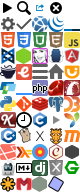
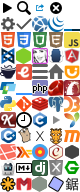
Add Nokogiri documentation
Closes #123.

Changed region(s): [[0.825, 0.9062, 1.0, 1.0]]

diff --git a/assets/stylesheets/global/_icons.scss b/assets/stylesheets/global/_icons.scss
@@ -71,3 +71,4 @@
 ._icon-marionette:before    { background-position: -1rem -11rem; }
 ._icon-mongoose:before      { background-position: -2rem -11rem; }
 ._icon-phpunit:before       { background-position: -3rem -11rem; }
+._icon-nokogiri:before      { background-position: -4rem -11rem; }

diff --git a/lib/docs/scrapers/nokogiri2.rb b/lib/docs/scrapers/nokogiri2.rb
@@ -1,0 +1,19 @@
+module Docs
+  class Nokogiri2 < Rdoc
+    self.name = 'Nokogiri'
+    self.slug = 'nokogiri'
+    self.version = '1.6.4'
+    self.dir = '/Users/Thibaut/DevDocs/Docs/RDoc/Nokogiri'
+
+    html_filters.replace 'rdoc/entries', 'nokogiri2/entries'
+
+    options[:root_title] = 'Nokogiri'
+    options[:only_patterns] = [/\ANokogiri/]
+
+    options[:attribution] = <<-HTML
+      &copy; 2008&ndash;2014 Aaron Patterson, Mike Dalessio, Charles Nutter,<br>
+      Sergio Arbeo, Patrick Mahoney, Yoko Harada, Akinori Musha<br>
+      Licensed under the MIT License.
+    HTML
+  end
+end

diff --git a/lib/docs/filters/nokogiri2/entries.rb b/lib/docs/filters/nokogiri2/entries.rb
@@ -1,0 +1,11 @@
+module Docs
+  class Nokogiri2
+    class EntriesFilter < Docs::Rdoc::EntriesFilter
+      def get_type
+        type = name.dup
+        type.remove! %r{#.+\z}
+        type.split('::')[0..2].join('::')
+      end
+    end
+  end
+end
